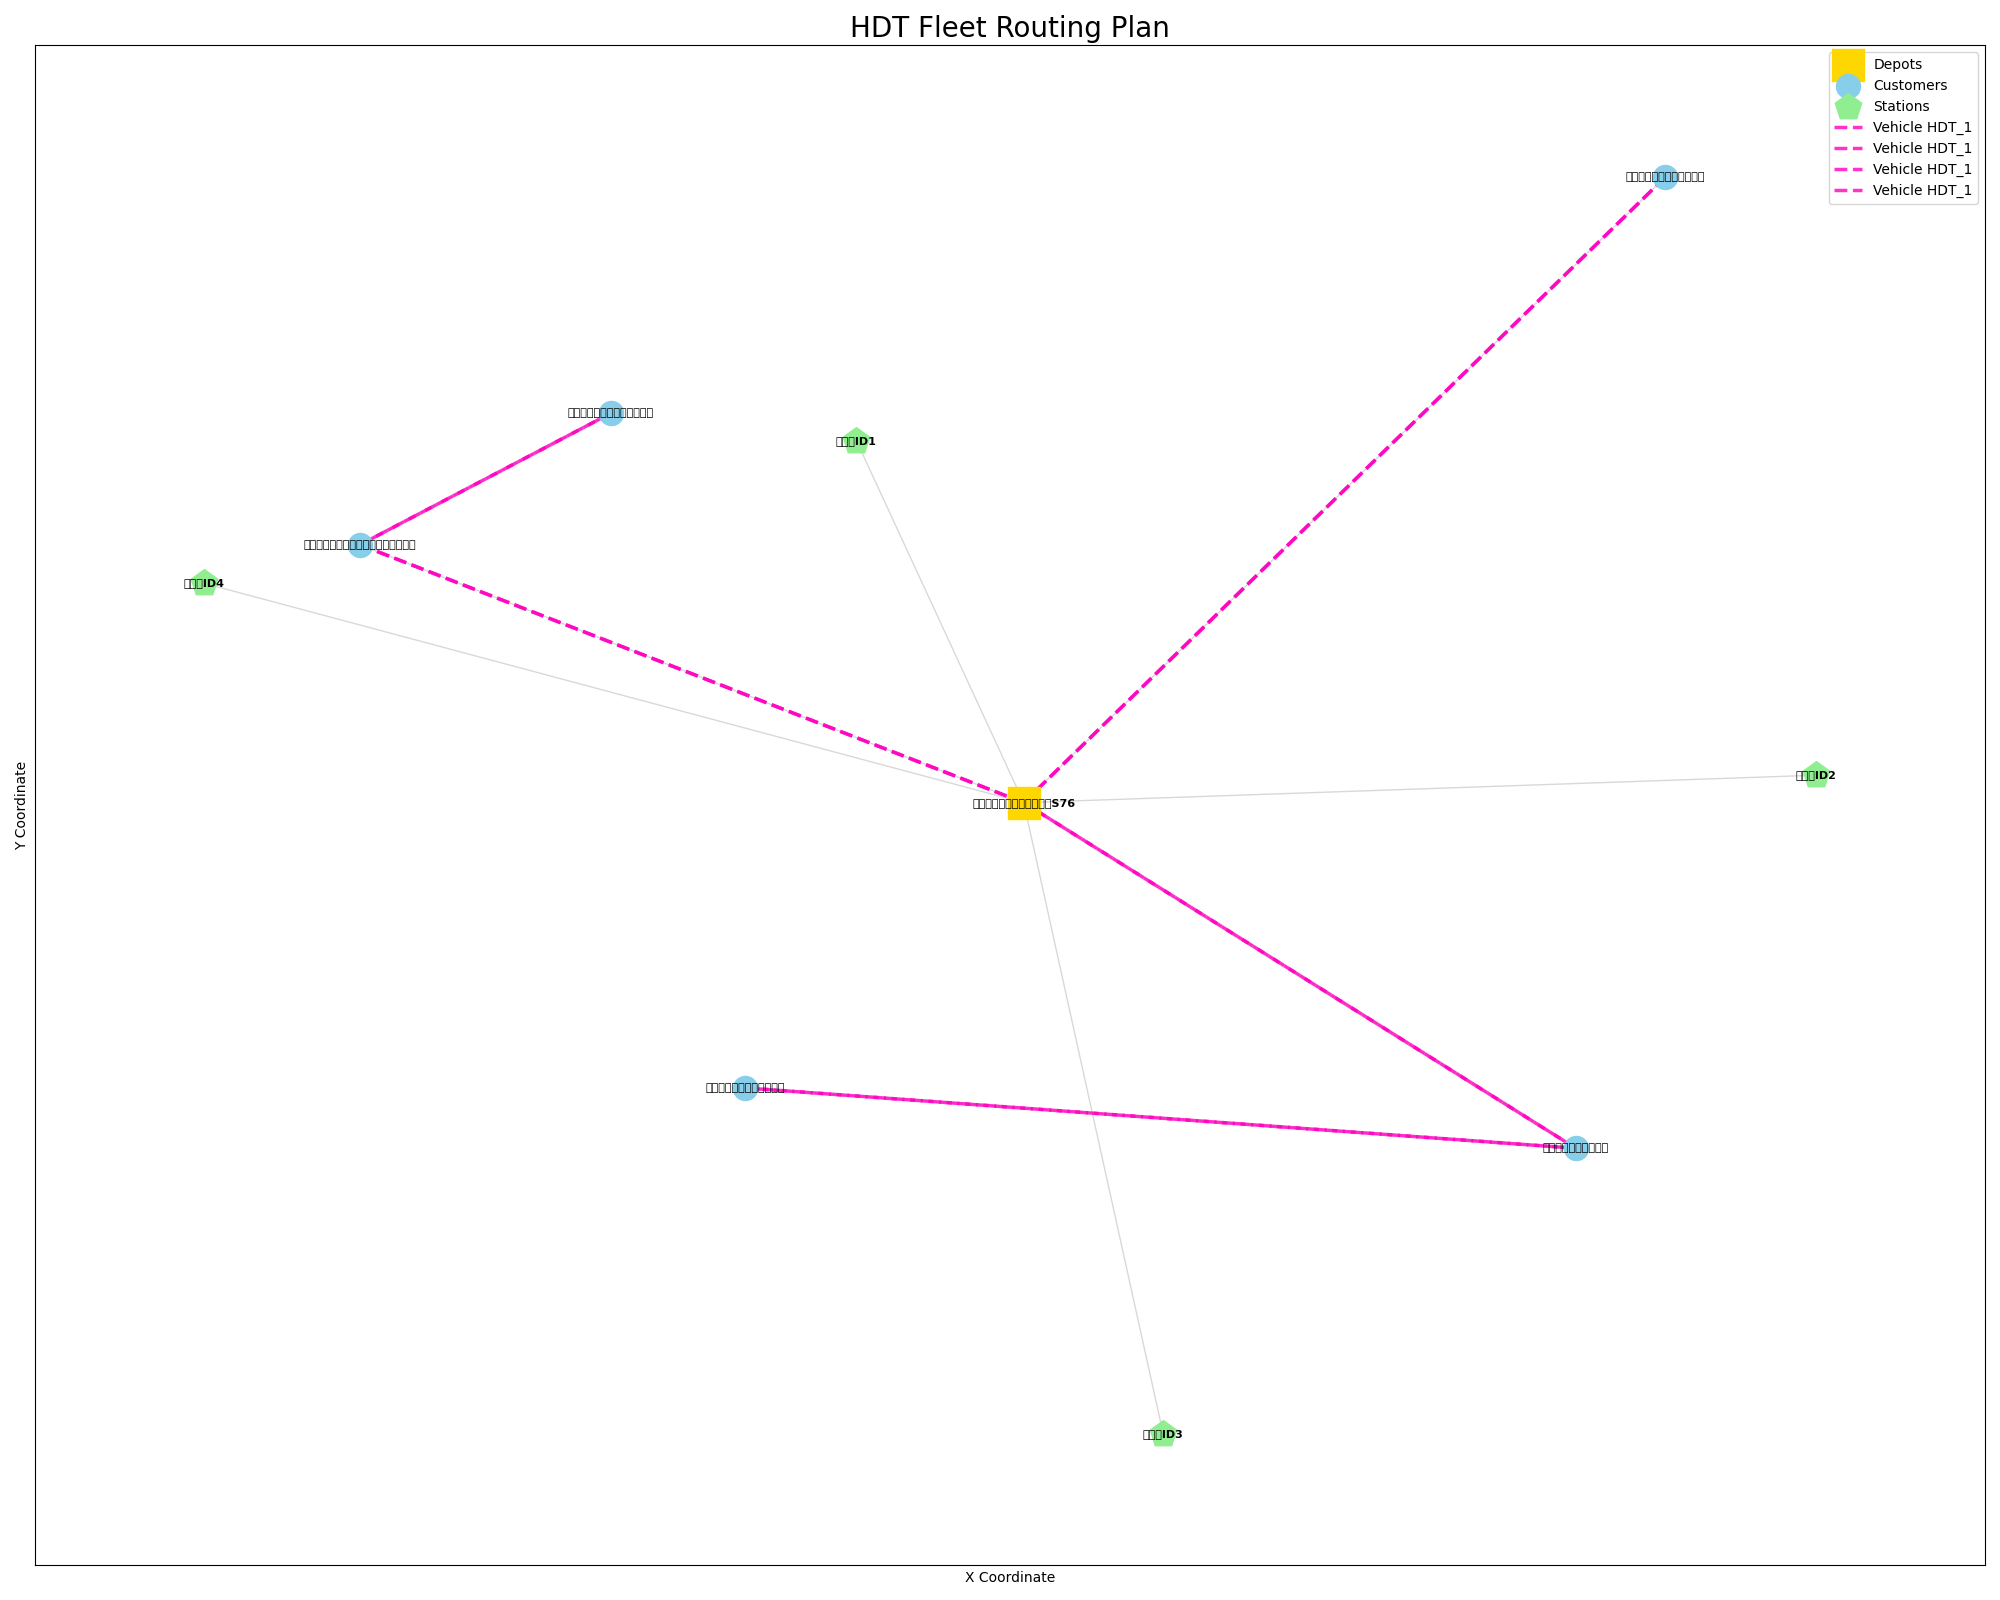
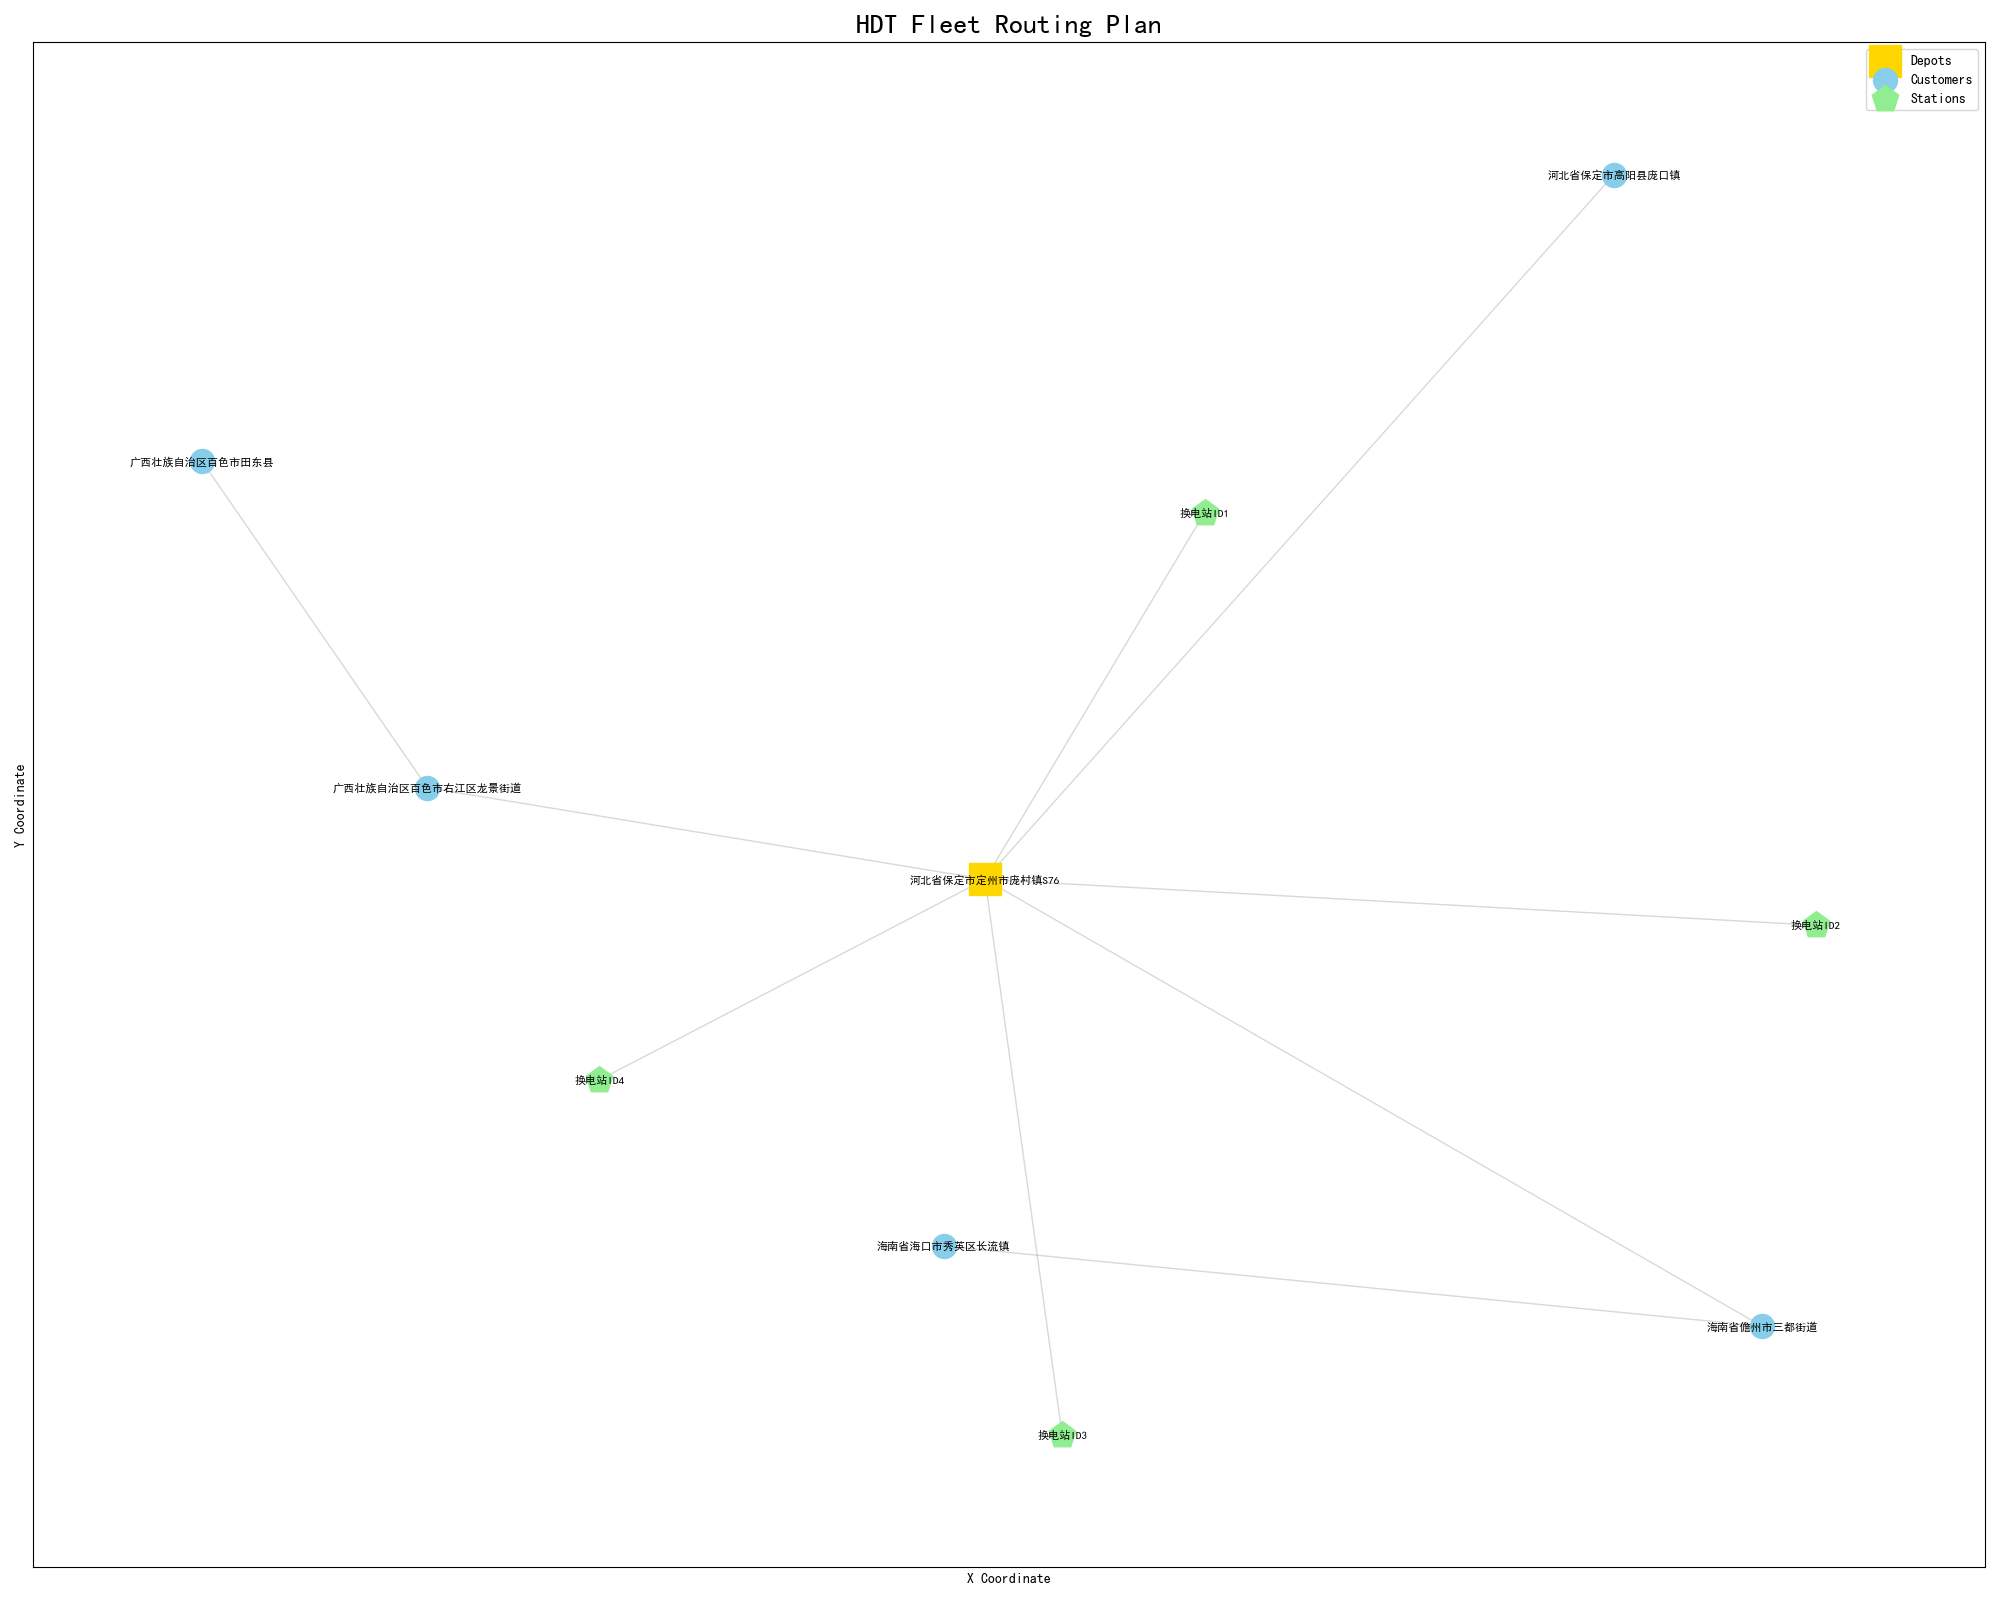
重置

diff --git a/New/HDT_Swapping_Optimization/src/analysis/post_analysis.py b/New/HDT_Swapping_Optimization/src/analysis/post_analysis.py
@@ -17,6 +17,13 @@ def safe_value(var):
     【关键修复】: 创建一个安全的取值函数，与旧版Pyomo兼容。
     如果变量未被求解器赋值(其 .value 为 None)，则返回0。
     """
+    if not hasattr(var, "value"):
+        # 将可能的numpy类型转为Python float
+        try:
+            return float(var)
+        except Exception:
+            return 0
+
     if var.value is None:
         return 0
     return value(var)
@@ -39,13 +46,44 @@ def plot_road_network_with_routes(model, data, filename="hdt_routing_plan.png"):
     depots = [n for n, t in node_types.items() if t == 'Depot']
     customers = [n for n, t in node_types.items() if t == 'Customer']
     stations = [n for n, t in node_types.items() if t == 'SwapStation']
+    others = [n for n in G.nodes if n not in depots + customers + stations]
 
-    nx.draw_networkx_nodes(G, pos, nodelist=depots, node_color='gold', node_size=500, node_shape='s', label='Depots')
-    nx.draw_networkx_nodes(G, pos, nodelist=customers, node_color='skyblue', node_size=300, label='Customers')
-    nx.draw_networkx_nodes(G, pos, nodelist=stations, node_color='lightgreen', node_size=400, node_shape='p',
-                           label='Stations')
+    nx.draw_networkx_nodes(
+        G,
+        pos,
+        nodelist=others,
+        node_color="lightgray",
+        node_size=50,
+        label="Road Nodes",
+    )
+    nx.draw_networkx_nodes(
+        G,
+        pos,
+        nodelist=depots,
+        node_color="gold",
+        node_size=500,
+        node_shape="s",
+        label="Depots",
+    )
+    nx.draw_networkx_nodes(
+        G,
+        pos,
+        nodelist=customers,
+        node_color="skyblue",
+        node_size=300,
+        label="Customers",
+    )
+    nx.draw_networkx_nodes(
+        G,
+        pos,
+        nodelist=stations,
+        node_color="lightgreen",
+        node_size=400,
+        node_shape="p",
+        label="Stations",
+    )
 
-    nx.draw_networkx_labels(G, pos, font_size=8, font_weight='bold')
+    nx.draw_networkx_labels(G, pos, font_size=8, font_weight="bold")
 
     # 绘制路径
     vehicle_colors = plt.cm.get_cmap('gist_rainbow', len(model.VEHICLES))
@@ -58,8 +96,17 @@ def plot_road_network_with_routes(model, data, filename="hdt_routing_plan.png"):
                     path_nodes = data['path_matrix'].loc[i, j]
                     if path_nodes and len(path_nodes) > 1:
                         path_edges = list(zip(path_nodes[:-1], path_nodes[1:]))
-                        nx.draw_networkx_edges(G, pos, edgelist=path_edges, edge_color=color, width=2.5, style='dashed',
-                                               alpha=0.8, label=f'Vehicle {k}')
+                        nx.draw_networkx_edges(
+                            G,
+                            pos,
+                            edgelist=path_edges,
+                            edge_color=color,
+                            width=2.5,
+                            style="dashed",
+                            alpha=0.8,
+                            label=f"Vehicle {k}",
+                        )
+
 
     plt.title("HDT Fleet Routing Plan", fontsize=20)
     plt.xlabel("X Coordinate")
@@ -79,24 +126,49 @@ def plot_station_energy_schedule(model, data):
     绘制每个能源站的详细能源调度计划。
     """
     print("正在绘制能源站调度图...")
-    time_index = pd.to_datetime(pd.Series(range(config.TOTAL_TIME_STEPS)) * config.TIME_STEP_MINUTES, unit='m')
+    time_index = pd.to_datetime(
+        pd.Series(range(config.TOTAL_TIME_STEPS)) * config.TIME_STEP_MINUTES, unit="m"
+    )
 
     for s in model.STATIONS:
         # 使用我们新的安全取值函数
         df_data = {
-            'Grid Power (kW)': [safe_value(model.P_grid[s, t]) for t in model.TIME],
-            'PV Power (kW)': [safe_value(data['pv_generation'][s][t]) for t in model.TIME],
-            'To Charge Station Batteries (kW)': [safe_value(model.P_charge_batt[s, t]) for t in model.TIME],
-            'EV Demand (kW)': [safe_value(data['ev_demand_timestep'][s][t] / config.TIME_STEP_HOURS) for t in
-                               model.TIME],
-            'EV Unserved (kW)': [safe_value(model.ev_unserved[s, t]) / config.TIME_STEP_HOURS for t in model.TIME],
+            "Grid Power (kW)": [safe_value(model.P_grid[s, t]) for t in model.TIME],
+            "PV Power (kW)": [
+                safe_value(data["pv_generation"][s][t]) for t in model.TIME
+            ],
+            "To Charge Station Batteries (kW)": [
+                safe_value(model.P_charge_batt[s, t]) for t in model.TIME
+            ],
+            "EV Demand (kW)": [
+                safe_value(data["ev_demand_timestep"][s][t] / config.TIME_STEP_HOURS)
+                for t in model.TIME
+            ],
+            "EV Unserved (kW)": [
+                safe_value(model.ev_unserved[s, t]) / config.TIME_STEP_HOURS
+                for t in model.TIME
+            ],
         }
         df = pd.DataFrame(df_data, index=time_index)
 
         fig, ax1 = plt.subplots(figsize=(18, 9))
 
-        ax1.stackplot(df.index, df['Grid Power (kW)'], df['PV Power (kW)'], labels=['From Grid', 'From PV'], alpha=0.7)
-        ax1.plot(df.index, df['EV Demand (kW)'], label='EV Demand', color='black', linestyle='--', linewidth=2)
+        ax1.stackplot(
+            df.index,
+            df["Grid Power (kW)"],
+            df["PV Power (kW)"],
+            labels=["From Grid", "From PV"],
+            alpha=0.7,
+        )
+        ax1.plot(
+            df.index,
+            df["EV Demand (kW)"],
+            label="EV Demand",
+            color="black",
+            linestyle="--",
+            linewidth=2,
+        )
+
         ax1.set_xlabel("Time of Day")
         ax1.set_ylabel("Power (kW)")
         ax1.set_title(f"Energy Schedule and Battery Status for {s}", fontsize=20)
@@ -104,8 +176,14 @@ def plot_station_energy_schedule(model, data):
         ax1.grid(True)
 
         ax2 = ax1.twinx()
-        ax2.plot(time_index, [safe_value(model.N_full_batt[s, t]) for t in model.TIME], label='Full Batteries',
-                 color='green', marker='o', linewidth=2.5)
+        ax2.plot(
+            time_index,
+            [safe_value(model.N_full_batt[s, t]) for t in model.TIME],
+            label="Full Batteries",
+            color="green",
+            marker="o",
+            linewidth=2.5,
+        )
         ax2.set_ylabel("Number of Full Batteries")
         ax2.legend(loc='upper right')
 
@@ -113,4 +191,45 @@ def plot_station_energy_schedule(model, data):
         filename = f"energy_schedule_{s}.png"
         plt.savefig(os.path.join(config.RESULTS_DIR, filename))
         plt.close()
-    print(f"能源调度图已保存到: {config.RESULTS_DIR}/")
+        print(f"能源调度图已保存到: {config.RESULTS_DIR}/")
+
+
+def check_task_feasibility(data):
+    """Calculate round-trip distance, time, and energy for each task."""
+    results = []
+    for task_id, info in data["tasks"].items():
+        depot = info["depot"]
+        customer = info["delivery_to"]
+        dist_out = data["dist_matrix"].loc[depot, customer]
+        dist_back = data["dist_matrix"].loc[customer, depot]
+        total_dist = dist_out + dist_back
+        time_out = data['time_matrix'].loc[depot, customer]
+        time_back = data['time_matrix'].loc[customer, depot]
+        total_time = time_out + time_back + config.LOADING_UNLOADING_TIME_HOURS
+        energy_out = dist_out * (
+                config.HDT_BASE_CONSUMPTION_KWH_PER_KM
+                + (config.HDT_EMPTY_WEIGHT_TON + info["demand"])
+                * config.HDT_WEIGHT_CONSUMPTION_KWH_PER_KM_TON
+        )
+        energy_back = dist_back * (
+                config.HDT_BASE_CONSUMPTION_KWH_PER_KM
+                + config.HDT_EMPTY_WEIGHT_TON * config.HDT_WEIGHT_CONSUMPTION_KWH_PER_KM_TON
+        )
+        total_energy = energy_out + energy_back
+        feasible = (
+                total_energy + config.HDT_MIN_SOC_KWH <= config.HDT_BATTERY_CAPACITY_KWH
+        )
+        results.append(
+            {
+                "Task": task_id,
+                "Roundtrip Distance (km)": round(float(total_dist), 2),
+                "Time (h)": round(float(total_time), 2),
+                "Energy (kWh)": round(float(total_energy), 2),
+                "Feasible": feasible,
+            }
+        )
+    df = pd.DataFrame(results).set_index("Task")
+    print("任务可达性检查:")
+    print(df.to_string())
+    print()
+    return df

diff --git a/New/HDT_Swapping_Optimization/main_two_stage.py b/New/HDT_Swapping_Optimization/main_two_stage.py
@@ -9,12 +9,14 @@ import math
 # 将src目录添加到Python路径
 sys.path.append(os.path.abspath(os.path.join(os.path.dirname(__file__), 'src')))
 
+
 from src.common import config_final as config
 # 【修改】导入我们重写后的 loader_final
 from src.data_processing import loader_final
 from src.modeling import stage1_tactical
 from src.modeling import model_final as stage2_model_builder
 from src.analysis import post_analysis
+from src.analysis.post_analysis import check_task_feasibility
 
 
 def run_stage1(data, solver):
@@ -25,8 +27,9 @@ def run_stage1(data, solver):
     print("=" * 50)
     model_s1 = stage1_tactical.create_tactical_model(data)
     results_s1 = solver.solve(model_s1, tee=False)
-    if (results_s1.solver.status == 'ok') and (
-            results_s1.solver.termination_condition in ['optimal', 'locallyOptimal']):
+    if (results_s1.solver.status == "ok") and (
+        results_s1.solver.termination_condition in ["optimal", "locallyOptimal"]
+    ):
         print("[S1-SUCCESS] 战术规划求解成功！")
         allocated_trucks = 0
         for d in model_s1.DEPOTS:
@@ -41,10 +44,13 @@ def run_stage1(data, solver):
                 unserved_tasks.append(t)
         print(f"  -> 决策: 服务 {len(served_tasks)} 个任务: {served_tasks}")
         if unserved_tasks:
-            print(f"  -> 警告: {len(unserved_tasks)} 个任务因运力不足被放弃: {unserved_tasks}")
-        available_vehicles = list(data['vehicles'].keys())
-        vehicle_ids_to_plan = available_vehicles[:min(allocated_trucks, len(available_vehicles))]
-        return vehicle_ids_to_plan, served_tasks
+            print(
+                f"  -> 警告: {len(unserved_tasks)} 个任务因运力不足被放弃: {unserved_tasks}"
+            )
+        available_vehicles = list(data["vehicles"].keys())
+        vehicle_ids_to_plan = available_vehicles[
+                              : min(allocated_trucks, len(available_vehicles))
+                              ]
     else:
         print("[S1-FAILURE] 战术规划求解失败。")
         print(f"  - 求解器状态: {results_s1.solver.status}")
@@ -61,10 +67,13 @@ def run_stage2(data, solver, vehicle_ids, task_ids):
     if not vehicle_ids or not task_ids:
         print("[S2-SKIP] 没有车辆或任务被分配，跳过运营执行阶段。")
         return None
-    model_s2 = stage2_model_builder.create_operational_model(data, vehicle_ids, task_ids)
+    model_s2 = stage2_model_builder.create_operational_model(
+        data, vehicle_ids, task_ids
+    )
     results_s2 = solver.solve(model_s2, tee=True)
-    if (results_s2.solver.status == 'ok') and (
-            results_s2.solver.termination_condition in ['optimal', 'locallyOptimal']):
+    if (results_s2.solver.status == "ok") and (
+        results_s2.solver.termination_condition in ["optimal", "locallyOptimal"]
+    ):
         print("[S2-SUCCESS] 运营执行模型求解成功！")
         return model_s2
     else:
@@ -95,8 +104,14 @@ def main():
     except Exception as e:
         print(f"\n[致命错误] 环境初始化失败: {e}")
         import traceback
+
         traceback.print_exc()
         return
+
+    # 对任务可达性进行预检查
+    print("\n------ Task Feasibility ------")
+    check_task_feasibility(model_data)
+    print("------------------------------")
 
     # 2. 运行第一阶段 (代码不变)
     vehicle_ids, task_ids = run_stage1(model_data, solver)
@@ -122,6 +137,7 @@ def main():
         except Exception as e:
             print(f"\n[警告] 后分析绘图失败: {e}")
             import traceback
+
             traceback.print_exc()
     else:
         print("\n流程结束，但未产生可供分析的最终解。")

diff --git a/New/HDT_Swapping_Optimization/src/data_processing/loader_final.py b/New/HDT_Swapping_Optimization/src/data_processing/loader_final.py
@@ -125,9 +125,14 @@ def create_scenario_from_manual_data():
 
         # 尝试多种时间格式以增加鲁棒性
         try:
-            sample_day_load['hour'] = pd.to_datetime(sample_day_load['开始时间'], format='%H:%M:%S').dt.hour
+            sample_day_load['hour'] = pd.to_datetime(
+                sample_day_load['开始时间'], format='%H:%M:%S'
+            ).dt.hour
         except ValueError:
-            sample_day_load['hour'] = pd.to_datetime(sample_day_load['开始时间']).dt.hour
+            sample_day_load['hour'] = pd.to_datetime(
+                sample_day_load['开始时间'], format='mixed'
+            ).dt.hour
+
 
         for s_name_raw, group in sample_day_load.groupby('电站名称'):
             s_id = None

diff --git a/New/HDT_Swapping_Optimization/src/common/config_final.py b/New/HDT_Swapping_Optimization/src/common/config_final.py
@@ -61,6 +61,6 @@ PV_PEAK_POWER_KW = {'SwapStation1': 500, 'SwapStation2': 400, '换电站ID1': 30
 
 
 # --- 求解器与模型 ---
-SOLVER_NAME = 'gurobi'
+SOLVER_NAME = 'ipopt'
 TIME_LIMIT_SECONDS = 600
 BIG_M = 10000
